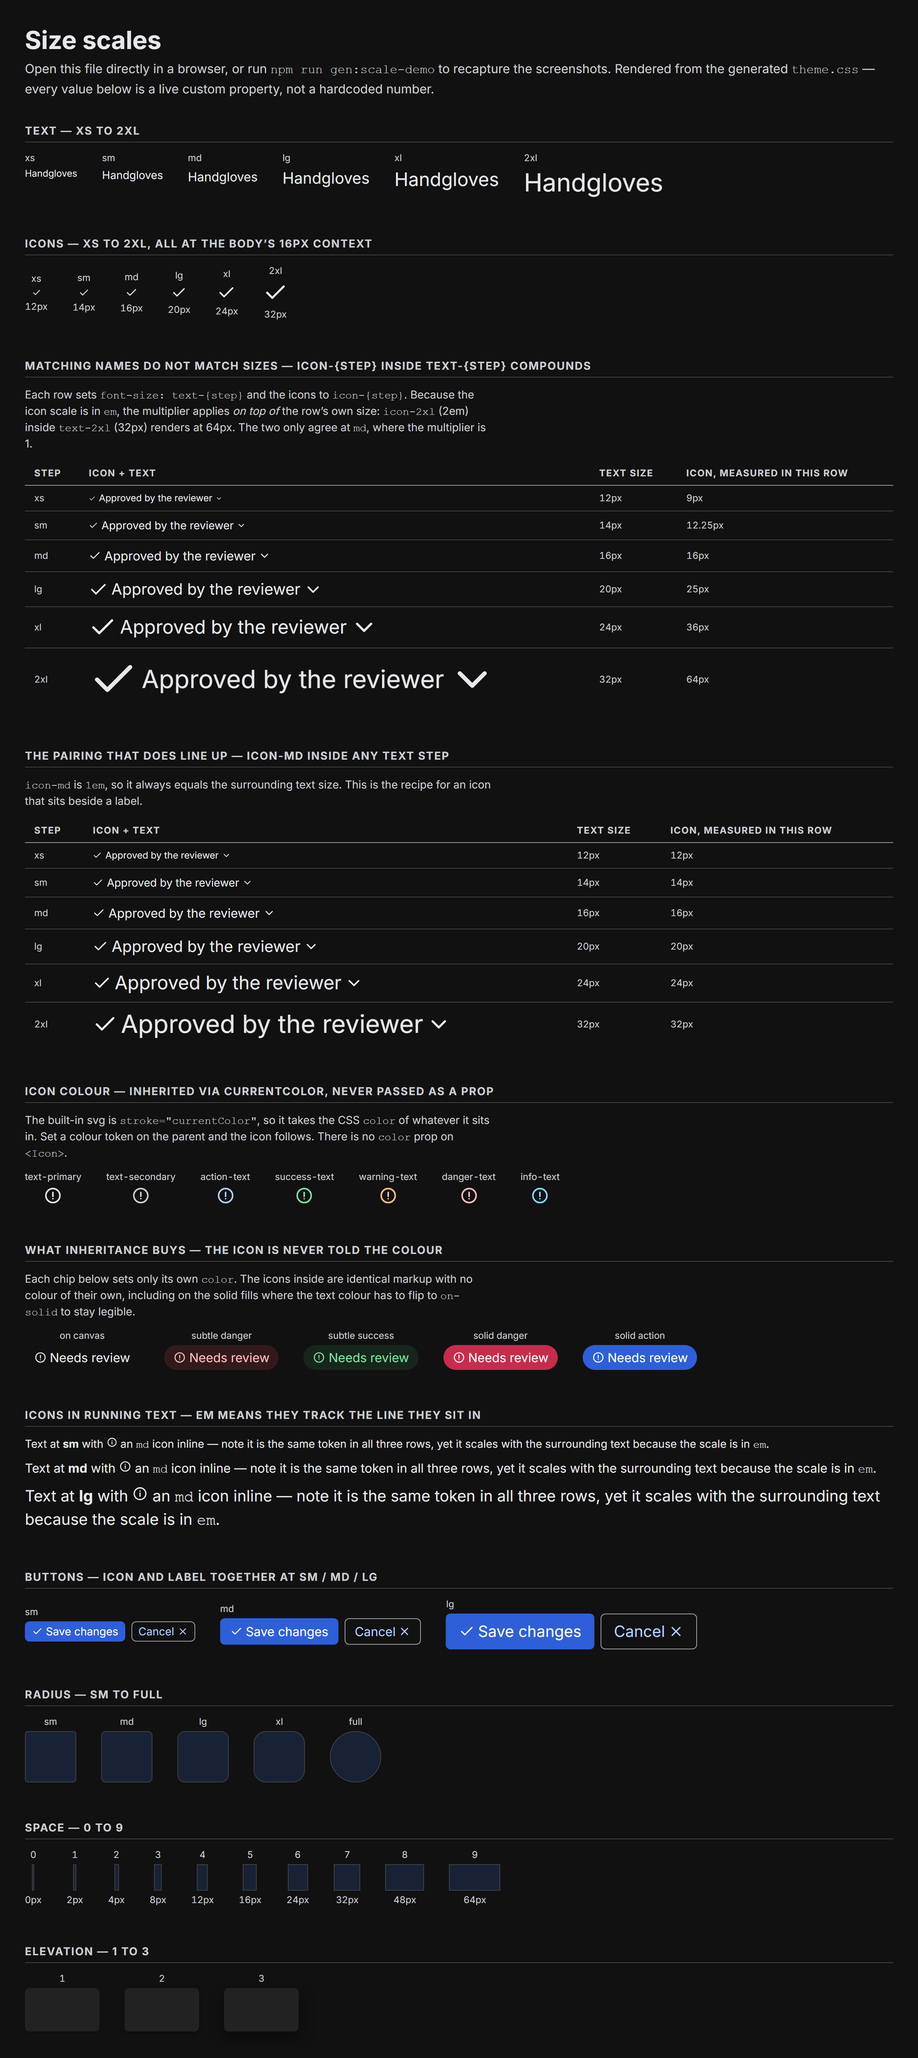
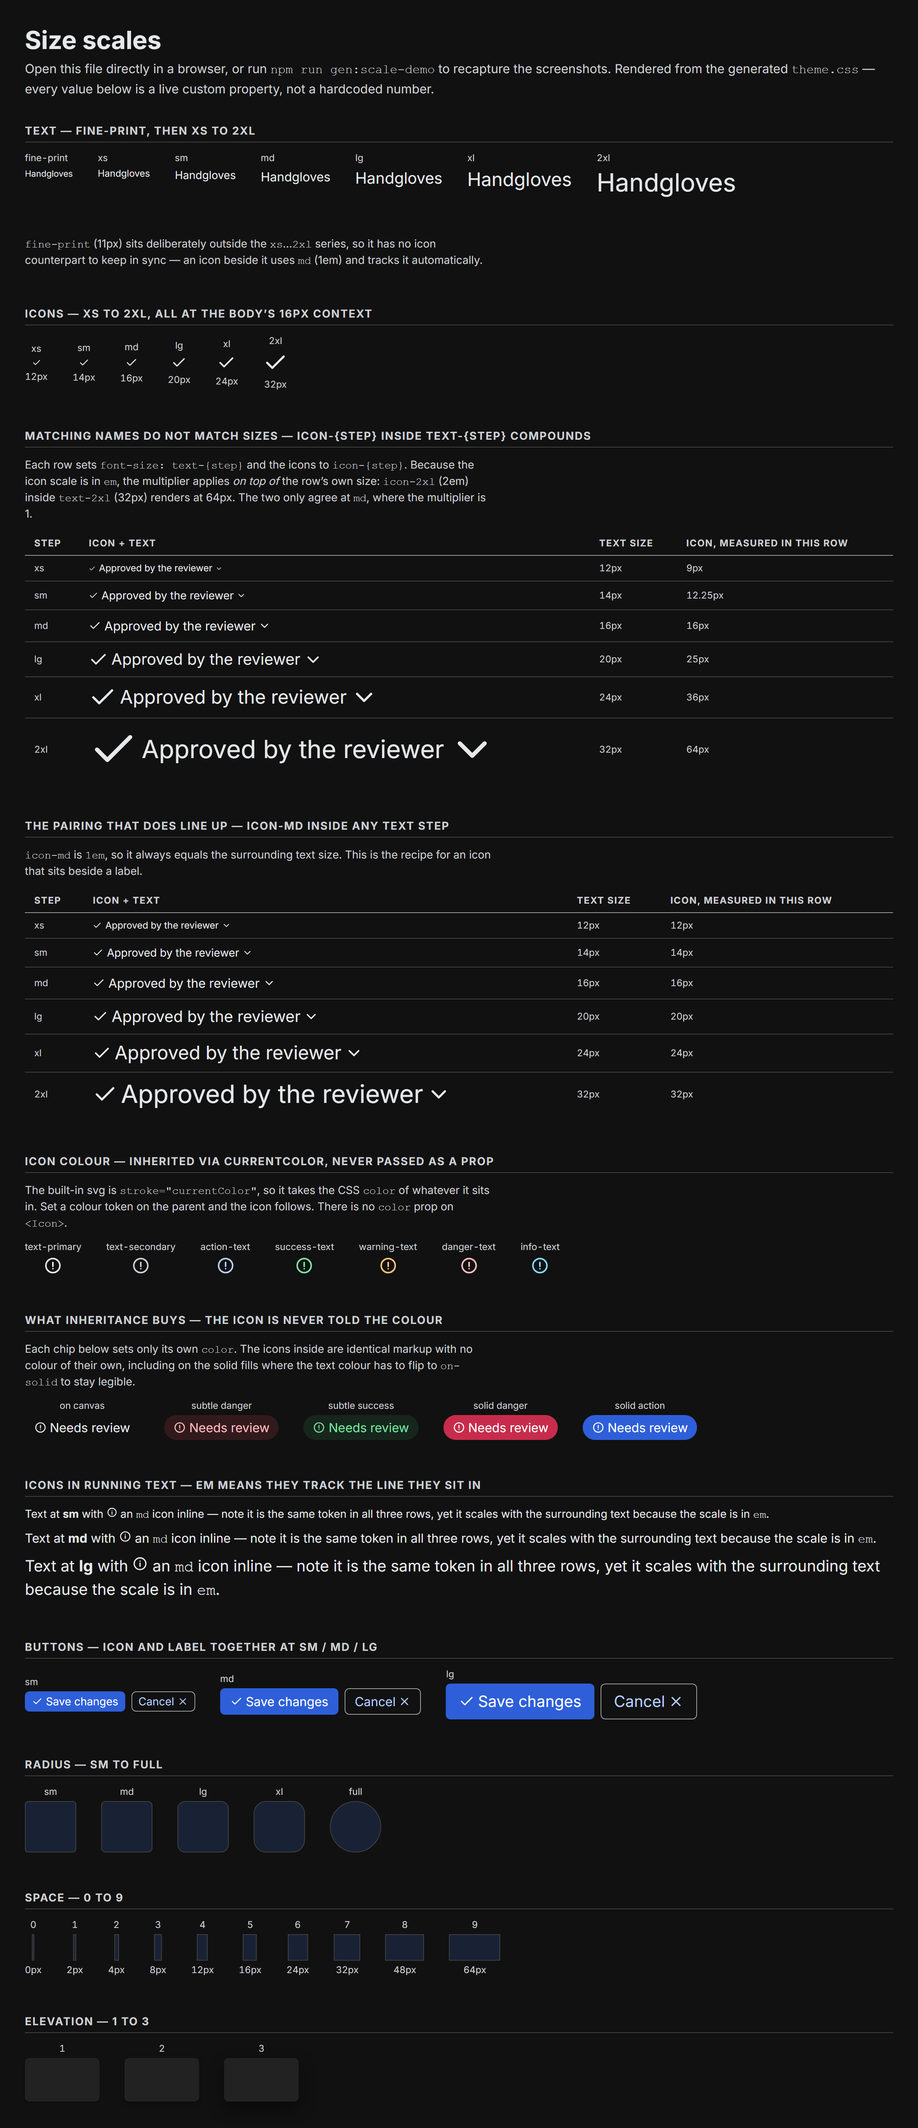
feat(tokens): add a fine-print text size, and show what colours it may use
text-fine-print is 11px/16px, below xs and deliberately outside the xs..2xl
series -- so it carries no ICON counterpart and nothing has to be kept in
sync; an icon beside it uses md (1em) and tracks it automatically.

11px rather than the 10px asked for. Below 11 Inter's x-height stops
resolving at 1x, and WCAG gives small text no exemption: the 3:1 allowance
begins at 24px (or 18.66px bold), so fine print always needs 4.5:1. The page
renders 12/11/10/9px side by side so the floor is a visible judgement rather
than an assertion.

The colour page gains a section for it, since which foregrounds are legal at
this size is a colour question. A check asserts both halves of that guidance,
and corrected it once: the page first said the 3:1 tokens 'fall short by
design', and the check replied that in dark mode they measure 6.5-7:1 and
pass. The real reason they are unsafe is that the system guarantees them
nothing better than 3:1 -- so the check now proves each one drops below 4.5
somewhere in the seed space, which is what makes them unusable for text.

The scales page lists it too, with a note on why it has no icon counterpart.

diff --git a/examples/colours/index.html b/examples/colours/index.html
@@ -609,6 +609,121 @@
     </div></div>
 </section>
 
+<section id="fine-print">
+  <h2>Fine print — 11px, and the colours it may use</h2>
+  <p class="note"><code>text-fine-print</code> is 11px/16px, below <code>xs</code> and outside the
+     <code>xs</code>…<code>2xl</code> series, so it has no icon counterpart to keep in sync — an
+     icon beside it uses <code>md</code> (1em) and tracks it automatically.</p>
+  <table><thead><tr><th>Size</th><th>Specimen</th><th></th></tr></thead><tbody><tr>
+        <td class="tag mono">12px</td>
+        <td style="font-size:12px;line-height:16px;max-width:64ch">Rates shown exclude VAT. Cancel any time before the renewal date; refunds are pro-rated to the day. Terms apply.</td>
+        <td class="tag dim">text-xs — the smallest step in the ramp</td>
+      </tr><tr>
+        <td class="tag mono">11px</td>
+        <td style="font-size:11px;line-height:16px;max-width:64ch">Rates shown exclude VAT. Cancel any time before the renewal date; refunds are pro-rated to the day. Terms apply.</td>
+        <td class="tag dim">text-fine-print — the floor</td>
+      </tr><tr>
+        <td class="tag mono">10px</td>
+        <td style="font-size:10px;line-height:16px;max-width:64ch">Rates shown exclude VAT. Cancel any time before the renewal date; refunds are pro-rated to the day. Terms apply.</td>
+        <td class="tag dim">0.625rem — below the floor</td>
+      </tr><tr>
+        <td class="tag mono">9px</td>
+        <td style="font-size:9px;line-height:16px;max-width:64ch">Rates shown exclude VAT. Cancel any time before the renewal date; refunds are pro-rated to the day. Terms apply.</td>
+        <td class="tag dim">not legible</td>
+      </tr></tbody></table>
+  <p class="note">WCAG gives small text no exemption: the 3:1 allowance begins at 24px, or
+     18.66px bold. So fine print always needs a <b>4.5:1</b> foreground. The last three rows are
+     the 3:1 tokens — gated for borders and focus rings, where 3:1 <i>is</i> the requirement.
+     The system guarantees them nothing better, so they are never safe for text even when a
+     particular theme clears 4.5 by luck. In this theme's dark mode they measure about 6.5–7:1
+     and would read perfectly well; change the brand seed and they drop below 4.5. A guarantee
+     you cannot rely on is not a guarantee.</p>
+  <table><thead><tr><th>Foreground</th><th>Fine print on canvas</th><th>Contrast</th><th></th></tr></thead><tbody>
+      <tr>
+      <td class="tag mono">text-primary</td>
+      <td data-token="color-text-primary">
+        <span style="font-size:var(--ap-text-fine-print-size);line-height:var(--ap-text-fine-print-lh);
+                     color:var(--ap-color-text-primary);max-width:64ch;display:inline-block">Rates shown exclude VAT. Cancel any time before the renewal date; refunds are pro-rated to the day. Terms apply.</span>
+      </td>
+      <td><span class="only-light"><span class="badge ok" title="#1f2022 on #fdfdfd">16.03:1 <b>gated</b></span></span><span class="only-dark"><span class="badge ok" title="#e6e8eb on #111111">15.38:1 <b>gated</b></span></span></td>
+      <td class="tag dim">ok at any size</td>
+    </tr><tr>
+      <td class="tag mono">text-secondary</td>
+      <td data-token="color-text-secondary">
+        <span style="font-size:var(--ap-text-fine-print-size);line-height:var(--ap-text-fine-print-lh);
+                     color:var(--ap-color-text-secondary);max-width:64ch;display:inline-block">Rates shown exclude VAT. Cancel any time before the renewal date; refunds are pro-rated to the day. Terms apply.</span>
+      </td>
+      <td><span class="only-light"><span class="badge ok" title="#575a5e on #fdfdfd">6.82:1 <b>gated</b></span></span><span class="only-dark"><span class="badge ok" title="#cdcfd4 on #111111">12.11:1 <b>gated</b></span></span></td>
+      <td class="tag dim">ok at any size</td>
+    </tr><tr>
+      <td class="tag mono">action-text</td>
+      <td data-token="color-action-text">
+        <span style="font-size:var(--ap-text-fine-print-size);line-height:var(--ap-text-fine-print-lh);
+                     color:var(--ap-color-action-text);max-width:64ch;display:inline-block">Rates shown exclude VAT. Cancel any time before the renewal date; refunds are pro-rated to the day. Terms apply.</span>
+      </td>
+      <td><span class="only-light"><span class="badge ok" title="#254fba on #fdfdfd">7.10:1 <b>gated</b></span></span><span class="only-dark"><span class="badge ok" title="#b8d0ff on #111111">12.14:1 <b>gated</b></span></span></td>
+      <td class="tag dim">ok at any size</td>
+    </tr><tr>
+      <td class="tag mono">danger-text</td>
+      <td data-token="color-danger-text">
+        <span style="font-size:var(--ap-text-fine-print-size);line-height:var(--ap-text-fine-print-lh);
+                     color:var(--ap-color-danger-text);max-width:64ch;display:inline-block">Rates shown exclude VAT. Cancel any time before the renewal date; refunds are pro-rated to the day. Terms apply.</span>
+      </td>
+      <td><span class="only-light"><span class="badge ok" title="#a3193a on #fdfdfd">7.49:1 <b>gated</b></span></span><span class="only-dark"><span class="badge ok" title="#ffbfc2 on #111111">12.12:1 <b>gated</b></span></span></td>
+      <td class="tag dim">ok at any size</td>
+    </tr><tr>
+      <td class="tag mono">warning-text</td>
+      <td data-token="color-warning-text">
+        <span style="font-size:var(--ap-text-fine-print-size);line-height:var(--ap-text-fine-print-lh);
+                     color:var(--ap-color-warning-text);max-width:64ch;display:inline-block">Rates shown exclude VAT. Cancel any time before the renewal date; refunds are pro-rated to the day. Terms apply.</span>
+      </td>
+      <td><span class="only-light"><span class="badge ok" title="#7e4e00 on #fdfdfd">6.94:1 <b>gated</b></span></span><span class="only-dark"><span class="badge ok" title="#ffc47d on #111111">12.09:1 <b>gated</b></span></span></td>
+      <td class="tag dim">ok at any size</td>
+    </tr><tr>
+      <td class="tag mono">success-text</td>
+      <td data-token="color-success-text">
+        <span style="font-size:var(--ap-text-fine-print-size);line-height:var(--ap-text-fine-print-lh);
+                     color:var(--ap-color-success-text);max-width:64ch;display:inline-block">Rates shown exclude VAT. Cancel any time before the renewal date; refunds are pro-rated to the day. Terms apply.</span>
+      </td>
+      <td><span class="only-light"><span class="badge ok" title="#00683a on #fdfdfd">6.79:1 <b>gated</b></span></span><span class="only-dark"><span class="badge ok" title="#7ae4a3 on #111111">12.10:1 <b>gated</b></span></span></td>
+      <td class="tag dim">ok at any size</td>
+    </tr><tr>
+      <td class="tag mono">info-text</td>
+      <td data-token="color-info-text">
+        <span style="font-size:var(--ap-text-fine-print-size);line-height:var(--ap-text-fine-print-lh);
+                     color:var(--ap-color-info-text);max-width:64ch;display:inline-block">Rates shown exclude VAT. Cancel any time before the renewal date; refunds are pro-rated to the day. Terms apply.</span>
+      </td>
+      <td><span class="only-light"><span class="badge ok" title="#006080 on #fdfdfd">6.92:1 <b>gated</b></span></span><span class="only-dark"><span class="badge ok" title="#88daff on #111111">12.16:1 <b>gated</b></span></span></td>
+      <td class="tag dim">ok at any size</td>
+    </tr>
+      <tr>
+      <td class="tag mono">border-normal</td>
+      <td data-token="color-border-normal">
+        <span style="font-size:var(--ap-text-fine-print-size);line-height:var(--ap-text-fine-print-lh);
+                     color:var(--ap-color-border-normal);max-width:64ch;display:inline-block">Rates shown exclude VAT. Cancel any time before the renewal date; refunds are pro-rated to the day. Terms apply.</span>
+      </td>
+      <td><span class="only-light"><span class="badge mid" title="#8f9094 on #fdfdfd">3.14:1 <b>gated</b></span></span><span class="only-dark"><span class="badge ok" title="#96989b on #111111">6.53:1 <b>gated</b></span></span></td>
+      <td class="tag mono"><b>not a text colour</b></td>
+    </tr><tr>
+      <td class="tag mono">border-interactive</td>
+      <td data-token="color-border-interactive">
+        <span style="font-size:var(--ap-text-fine-print-size);line-height:var(--ap-text-fine-print-lh);
+                     color:var(--ap-color-border-interactive);max-width:64ch;display:inline-block">Rates shown exclude VAT. Cancel any time before the renewal date; refunds are pro-rated to the day. Terms apply.</span>
+      </td>
+      <td><span class="only-light"><span class="badge mid" title="#888b8e on #fdfdfd">3.37:1 <b>gated</b></span></span><span class="only-dark"><span class="badge ok" title="#9c9ea2 on #111111">7.04:1 <b>gated</b></span></span></td>
+      <td class="tag mono"><b>not a text colour</b></td>
+    </tr><tr>
+      <td class="tag mono">focus-ring</td>
+      <td data-token="color-focus-ring">
+        <span style="font-size:var(--ap-text-fine-print-size);line-height:var(--ap-text-fine-print-lh);
+                     color:var(--ap-color-focus-ring);max-width:64ch;display:inline-block">Rates shown exclude VAT. Cancel any time before the renewal date; refunds are pro-rated to the day. Terms apply.</span>
+      </td>
+      <td><span class="only-light"><span class="badge mid" title="#5a87e9 on #fdfdfd">3.40:1 <b>gated</b></span></span><span class="only-dark"><span class="badge ok" title="#6c9afe on #111111">6.92:1 <b>gated</b></span></span></td>
+      <td class="tag mono"><b>not a text colour</b></td>
+    </tr>
+    </tbody></table>
+</section>
+
 <section>
   <h2>Borders and the focus ring</h2>
   <div class="row center"><div class="cell" data-token="color-border-subtle" style="align-items:center">

diff --git a/scripts/gen-colour-demo.ts b/scripts/gen-colour-demo.ts
@@ -8,11 +8,13 @@
 // generated stylesheet and the token source ever disagree, the swatch and its
 // own label disagree visibly, and gen-colour-demo's verification pass fails.
 import { mkdirSync, writeFileSync } from 'node:fs'
+import { clampToSrgb } from '../packages/tokens/src/colour/gamut.js'
 import {
   DEFAULT_BRAND,
   SEMANTIC_MAP,
   contrastPairings,
   generateTheme,
+  oklchToHex,
   resolveSemantic,
   wcagRatio,
   type Mode,
@@ -207,6 +209,49 @@ function buttons(): string {
     </div>`
   }).join('')
   return `<div class="stack">${kinds}</div>`
+}
+
+const LEGAL =
+  'Rates shown exclude VAT. Cancel any time before the renewal date; refunds are ' +
+  'pro-rated to the day. Terms apply.'
+
+/** The size ladder around the floor, so the choice of 11px is visible. */
+function finePrintSizes(): string {
+  const rows = [
+    ['12px', 'text-xs — the smallest step in the ramp'],
+    ['11px', 'text-fine-print — the floor'],
+    ['10px', '0.625rem — below the floor'],
+    ['9px', 'not legible'],
+  ]
+    .map(
+      ([px, note]) => `<tr>
+        <td class="tag mono">${px}</td>
+        <td style="font-size:${px};line-height:16px;max-width:64ch">${esc(LEGAL)}</td>
+        <td class="tag dim">${esc(note)}</td>
+      </tr>`,
+    )
+    .join('')
+  return `<table><thead><tr><th>Size</th><th>Specimen</th><th></th></tr></thead><tbody>${rows}</tbody></table>`
+}
+
+/** Foregrounds that are legal at this size, and the ones that are not. */
+const FINE_PRINT_OK = FOREGROUNDS
+const FINE_PRINT_NOT = ['color-border-normal', 'color-border-interactive', 'color-focus-ring']
+
+function finePrintColours(): string {
+  const cell = (fg: string, bad: boolean) => `<tr>
+      <td class="tag mono">${esc(fg.replace('color-', ''))}</td>
+      <td data-token="${fg}">
+        <span style="font-size:var(--ap-text-fine-print-size);line-height:var(--ap-text-fine-print-lh);
+                     color:${v(fg)};max-width:64ch;display:inline-block">${esc(LEGAL)}</span>
+      </td>
+      <td>${ratioBadge(fg, 'color-bg-canvas')}</td>
+      <td class="tag ${bad ? 'mono' : 'dim'}">${bad ? '<b>not a text colour</b>' : 'ok at any size'}</td>
+    </tr>`
+  return `<table><thead><tr><th>Foreground</th><th>Fine print on canvas</th><th>Contrast</th><th></th></tr></thead><tbody>
+      ${FINE_PRINT_OK.map((f) => cell(f, false)).join('')}
+      ${FINE_PRINT_NOT.map((f) => cell(f, true)).join('')}
+    </tbody></table>`
 }
 
 function bordersAndFocus(): string {
@@ -431,6 +476,22 @@ const html = `<meta charset="utf-8">
   ${buttons()}
 </section>
 
+<section id="fine-print">
+  <h2>Fine print — 11px, and the colours it may use</h2>
+  <p class="note"><code>text-fine-print</code> is 11px/16px, below <code>xs</code> and outside the
+     <code>xs</code>…<code>2xl</code> series, so it has no icon counterpart to keep in sync — an
+     icon beside it uses <code>md</code> (1em) and tracks it automatically.</p>
+  ${finePrintSizes()}
+  <p class="note">WCAG gives small text no exemption: the 3:1 allowance begins at 24px, or
+     18.66px bold. So fine print always needs a <b>4.5:1</b> foreground. The last three rows are
+     the 3:1 tokens — gated for borders and focus rings, where 3:1 <i>is</i> the requirement.
+     The system guarantees them nothing better, so they are never safe for text even when a
+     particular theme clears 4.5 by luck. In this theme's dark mode they measure about 6.5–7:1
+     and would read perfectly well; change the brand seed and they drop below 4.5. A guarantee
+     you cannot rely on is not a guarantee.</p>
+  ${finePrintColours()}
+</section>
+
 <section>
   <h2>Borders and the focus ring</h2>
   ${bordersAndFocus()}
@@ -473,6 +534,48 @@ if (failures.length) {
     `theme has failing pairings:\n${failures
       .map((p) => `  [${p.mode}] ${p.fg} on ${p.bg} = ${p.ratio.toFixed(2)} (needs ${p.required})`)
       .join('\n')}`,
+  )
+}
+
+// Fine print is small text, so WCAG's 3:1 large-text allowance never applies
+// to it. Both halves of the page's guidance are asserted here, because a
+// warning nobody has watched fire is decoration.
+//
+// The second half needed correcting once already: the page first claimed the
+// 3:1 tokens "fall short by design", and this check pointed out that in dark
+// mode they measure 6.5-7.0:1 and pass. The real reason they are unsafe is
+// not what they happen to measure in one theme -- it is that the system only
+// GUARANTEES them 3:1. So that is what gets asserted: somewhere in the seed
+// space they do drop below 4.5, which is exactly why you cannot build on it.
+{
+  const bad: string[] = []
+  for (const mode of MODES) {
+    for (const fg of FINE_PRINT_OK) {
+      const r = wcagRatio(hex(mode, fg), hex(mode, 'color-bg-canvas'))
+      if (r < 4.5) bad.push(`[${mode}] ${fg} is shown as safe for fine print but is ${r.toFixed(2)}:1`)
+    }
+  }
+  // Prove the 3:1 guarantee really is only 3:1, across the same grid gate 4 sweeps.
+  const HUES = Array.from({ length: 15 }, (_, i) => i * 25)
+  const SWEEP = HUES.flatMap((h) =>
+    [0.35, 0.55, 0.75].flatMap((l) => [0.06, 0.15, 0.24].map((c) => oklchToHex(clampToSrgb({ l, c, h })))),
+  )
+  for (const fg of FINE_PRINT_NOT) {
+    let worst = Infinity
+    for (const brand of SWEEP) {
+      const t = generateTheme({ brand })
+      for (const mode of MODES) {
+        worst = Math.min(worst, wcagRatio(resolveSemantic(t, mode, fg), resolveSemantic(t, mode, 'color-bg-canvas')))
+      }
+    }
+    if (worst >= 4.5) {
+      bad.push(`${fg} never drops below 4.5:1 across the sweep (worst ${worst.toFixed(2)}) — the page's claim that it is text-unsafe is unfounded`)
+    }
+  }
+  if (bad.length) throw new Error(['fine-print colour guidance is wrong:', ...bad].join('\n'))
+  console.log(
+    `fine-print: ${FINE_PRINT_OK.length} foregrounds >= 4.5:1 in both modes; ` +
+      `${FINE_PRINT_NOT.length} 3:1 tokens each fall below 4.5 somewhere in the seed space`,
   )
 }
 

diff --git a/examples/scales/index.html b/examples/scales/index.html
@@ -75,8 +75,9 @@
    to recapture the screenshots. Rendered from the generated <code>theme.css</code> — every value below is a live custom property, not a hardcoded number.</p>
 
 <section>
-  <h2>Text — xs to 2xl</h2>
+  <h2>Text — fine-print, then xs to 2xl</h2>
   <div class="row">
+    <div class="cell"><span class="tag">fine-print</span><span style="font-size:var(--ap-text-fine-print-size);line-height:var(--ap-text-fine-print-lh)">Handgloves</span></div>
     <div class="cell"><span class="tag">xs</span><span style="font-size:var(--ap-text-xs-size);line-height:var(--ap-text-xs-lh)">Handgloves</span></div>
     <div class="cell"><span class="tag">sm</span><span style="font-size:var(--ap-text-sm-size);line-height:var(--ap-text-sm-lh)">Handgloves</span></div>
     <div class="cell"><span class="tag">md</span><span style="font-size:var(--ap-text-md-size);line-height:var(--ap-text-md-lh)">Handgloves</span></div>
@@ -84,6 +85,13 @@
     <div class="cell"><span class="tag">xl</span><span style="font-size:var(--ap-text-xl-size);line-height:var(--ap-text-xl-lh)">Handgloves</span></div>
     <div class="cell"><span class="tag">2xl</span><span style="font-size:var(--ap-text-2xl-size);line-height:var(--ap-text-2xl-lh)">Handgloves</span></div>
   </div>
+</section>
+
+<section>
+  <p class="note" style="font-size:var(--ap-text-sm-size);color:var(--ap-color-text-secondary);margin:0 0 var(--ap-space-4);max-width:68ch">
+    <code>fine-print</code> (11px) sits deliberately outside the <code>xs</code>…<code>2xl</code>
+    series, so it has no icon counterpart to keep in sync — an icon beside it uses
+    <code>md</code> (1em) and tracks it automatically.</p>
 </section>
 
 <section>

diff --git a/packages/tokens/src/scales/scales.ts b/packages/tokens/src/scales/scales.ts
@@ -12,6 +12,18 @@ export const SPACE = Object.freeze({
 // Each entry is frozen too — freezing only the container still let
 // `theme.scales.text.md.size = '99px'` through, polluting every later theme.
 export const TEXT = Object.freeze({
+  // Legal lines, disclaimers, footnotes — deliberately below the ramp, and
+  // deliberately NOT named as a step: `fine-print` sits outside the xs…2xl
+  // series, so it carries no ICON counterpart and no one has to keep one in
+  // sync. An icon set beside it uses `md` (1em) and tracks it automatically.
+  //
+  // 11px is the floor, not a preference. Below it the x-height of Inter at
+  // 1x stops resolving reliably, and WCAG gives small text no exemption:
+  // the 3:1 allowance starts at 24px (or 18.66px bold), so fine print always
+  // needs a 4.5:1 foreground. Pair it with text-primary/secondary or a
+  // `-text` role token, never with a border or focus-ring token — those are
+  // gated at 3:1 and are not text colours.
+  'fine-print': Object.freeze({ size: '11px', lineHeight: '16px' }),
   xs: Object.freeze({ size: '12px', lineHeight: '16px' }),
   sm: Object.freeze({ size: '14px', lineHeight: '20px' }),
   md: Object.freeze({ size: '16px', lineHeight: '24px' }),

diff --git a/packages/react/src/theme/contract.css.ts b/packages/react/src/theme/contract.css.ts
@@ -61,6 +61,10 @@ export const vars = createGlobalThemeContract(
     "9": 'space-9',
   },
   text: {
+    "finePrint": {
+      size: 'text-fine-print-size',
+      lineHeight: 'text-fine-print-lh',
+    },
     "xs": {
       size: 'text-xs-size',
       lineHeight: 'text-xs-lh',

diff --git a/packages/react/src/theme/theme.css b/packages/react/src/theme/theme.css
@@ -131,6 +131,8 @@
     --ap-space-7: 32px;
     --ap-space-8: 48px;
     --ap-space-9: 64px;
+    --ap-text-fine-print-size: 11px;
+    --ap-text-fine-print-lh: 16px;
     --ap-text-xs-size: 12px;
     --ap-text-xs-lh: 16px;
     --ap-text-sm-size: 14px;

diff --git a/examples/colours/README.md b/examples/colours/README.md
@@ -43,7 +43,7 @@ described the wrong mode. Check 4 below exists for precisely that.
 ## The verification pass
 
 `gen:colour-demo` does not just write a file. It loads the page in Chromium in both
-schemes and checks five things, failing the build on any of them:
+schemes and checks six things, failing the build on any of them:
 
 1. **Completeness** — every `--ap-color-*` declared in `theme.css` appears on the
    page. Enumerated from the stylesheet, not from a hand-written list, so a token
@@ -55,7 +55,13 @@ schemes and checks five things, failing the build on any of them:
 4. **The toggle moves both the colour and the labels**, in both directions, against a
    light OS and a dark OS — so neither direction passes by agreeing with the system
    preference — and **System** restores the OS value.
-5. **The pinned hover specimen equals what `:hover` actually paints**, for every role,
+5. **Fine print's colour guidance holds** — every foreground the page marks safe at 11px
+   clears 4.5:1 in both modes, and each 3:1 token it marks unsafe is shown to fall below
+   4.5 *somewhere in the seed space*. That second half was rewritten once: the page first
+   claimed the 3:1 tokens "fall short by design", and this check replied that in dark mode
+   they measure 6.5–7:1 and pass. The reason they are unsafe is not what they measure in
+   one theme, it is that the system guarantees them nothing better than 3:1.
+6. **The pinned hover specimen equals what `:hover` actually paints**, for every role,
    and both equal the `-bg-hover` token. A swatch labelled "hover" that does not match
    the real hover is worse than no swatch — a wrong answer wearing a proof's clothing.
    This check earned its place immediately: it found that live hover never moved at all,
